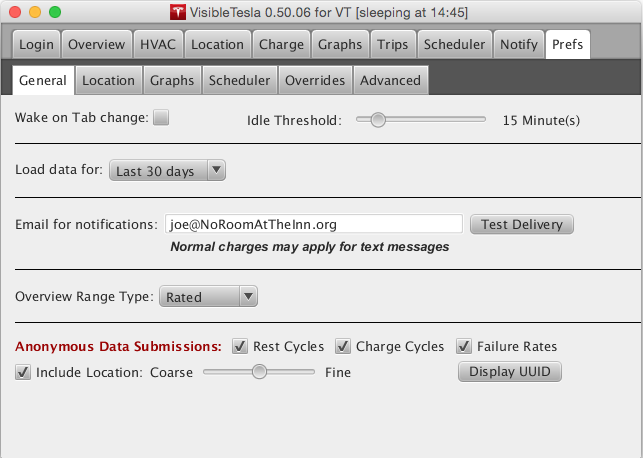
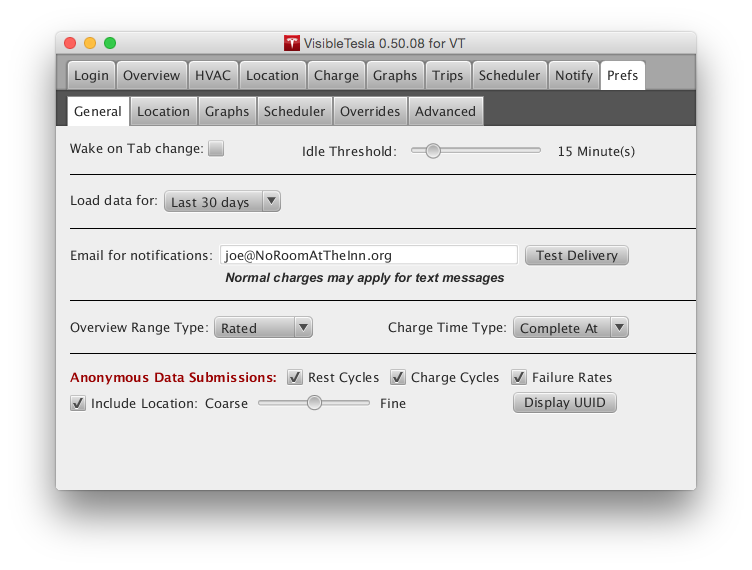
Add support for Charge Complete Time to Charge Tab. Update Docs

diff --git a/Documentation/ReleaseNotes.html b/Documentation/ReleaseNotes.html
@@ -20,6 +20,75 @@
 				VisibleTesla Release Notes
 			</h1>
 		<h3>
+			VisibleTesla 0.50.08 [04-25-15]
+		</h3>
+			<p><strong>DISCLAIMER</strong>: Using VisibleTesla may cause Tesla Motors to limit or completely cease your remote access capability. If they do this, you will not be able to use your mobile phone application, or its use may be impaired. The author of VisibleTesla cannot do anything to rectify this situation if it occurs. You are solely responsible for any adverse effects that stem from the use of VisibleTesla. Use it at your own risk.
+			</p>
+		<ul>
+			<li>User-Visible Changes
+				<ul>
+					<li>General
+						<ul>
+						</ul>
+					</li>
+					<li>Login
+						<ul>
+						</ul>
+					</li>
+					<li>Overview
+						<ul>
+						</ul>
+					</li>
+					<li>HVAC
+						<ul>
+						</ul>
+					</li>
+					<li>Location
+						<ul>
+						</ul>
+					</li>
+					<li>Charge
+						<ul>
+							<li>
+								<span class="added">Addition</span>: The "Time Left" row in the properties table will now reflect either the charge time remaining or the time at which the charge will be complete depending on a preference setting.
+							</li>
+						</ul>
+					</li>
+					<li>Graphs
+						<ul>
+						</ul>
+					</li>
+					<li>Trips
+						<ul>
+						</ul>
+					</li>
+					<li>Scheduler
+						<ul>
+						</ul>
+					</li>
+					<li>Notify
+						<ul>
+						</ul>
+					</li>
+					<li>Prefs
+						<ul>
+							<li>
+								<span class="added">Addition</span>: The General Tab now has an option that allows you to select what you'd like to see in the Charge panel for the charge time. You can either choose the time remaining until the charge is complete, or you can choose to see the time at which the charge will be complete.
+							</li>
+						</ul>
+					</li>
+				</ul>
+			</li>
+			<li>Under-the-covers
+				<ul>
+				</ul>
+			</li>
+			<li>Known problems
+				<ul>
+				</ul>
+			</li>
+		</ul>
+		<hr>				<h3>
 			VisibleTesla 0.50.07 [04-18-15]
 		</h3>
 			<p><strong>DISCLAIMER</strong>: Using VisibleTesla may cause Tesla Motors to limit or completely cease your remote access capability. If they do this, you will not be able to use your mobile phone application, or its use may be impaired. The author of VisibleTesla cannot do anything to rectify this situation if it occurs. You are solely responsible for any adverse effects that stem from the use of VisibleTesla. Use it at your own risk.
@@ -97,7 +166,8 @@
 				</ul>
 			</li>
 		</ul>
-		<hr>			<h3>
+		<hr>			
+		<h3>
 				VisibleTesla 0.50.06 [03-15-2015]
 			</h3>
 			<p><strong>DISCLAIMER</strong>: Using VisibleTesla may cause Tesla Motors to limit or completely cease your remote access capability. If they do this, you will not be able to use your mobile phone application, or its use may be impaired. The author of VisibleTesla cannot do anything to rectify this situation if it occurs. You are solely responsible for any adverse effects that stem from the use of VisibleTesla. Use it at your own risk.

diff --git a/Documentation/pages/ChargeTab.html b/Documentation/pages/ChargeTab.html
@@ -62,10 +62,10 @@
                     </tr>
                     <tr>
                         <td>
-                            Time Left
+                            Time Left/Will Complete
                         </td>
                         <td>
-                            Estimated amount of time until the charge will be complete
+                            Tells you when the current charge cycle will complete. This can display either the amount of time (hours, minutes, and seconds) until the charge is complete, or the time at which the charge will be complete. This is controlled by a <a href="PreferenceTab.html">Preference setting</a> which can be changed at any time. Note that a value may be displayed even if you are not currently charging. For example, if you plug in your car but have not yet initiated a charge, a <span class="ui">Time Left</span>value will be displayed which represents how long a charge would take.  
                         </td>
                     </tr>
                     <tr>

diff --git a/Documentation/pages/PrefsTab.html b/Documentation/pages/PrefsTab.html
@@ -81,6 +81,14 @@
                     </tr>
                     <tr>
                         <td>
+                            <span class="ui">Charge Time Type</span>
+                        </td>
+                        <td>
+                            Let's you select how to display the remaining charge time in the <a href="ChargeTab.html">Charge Tab</a>. If you select <span class="ui">Remaining</span>, you'll be presented with the number of hours, minutes, and seconds until the charge is complete. If you select <span class="ui">Complete At</span>, you'll be presented with the time at which the charge will be complete. For example, if it is currently 10:05:53 and there are 3 hours and 5 minutes remaining, the Charge Tab will show 13:05:53.
+                        </td>
+                    </tr>
+                    <tr>
+                        <td>
                             <span class="ui">Submit Anonymous Data</span>
                         </td>
                         <td>

diff --git a/src/org/noroomattheinn/visibletesla/ChargeController.java b/src/org/noroomattheinn/visibletesla/ChargeController.java
@@ -7,8 +7,11 @@
 package org.noroomattheinn.visibletesla;
 
 import java.text.SimpleDateFormat;
+import java.util.Calendar;
 import java.util.Date;
 import java.util.concurrent.Callable;
+import javafx.beans.value.ChangeListener;
+import javafx.beans.value.ObservableValue;
 import javafx.collections.FXCollections;
 import javafx.collections.ObservableList;
 import javafx.event.ActionEvent;
@@ -47,6 +50,7 @@ public class ChargeController extends BaseController {
  *----------------------------------------------------------------------------*/
     
     private boolean useMiles;
+    private boolean showTimeComplete;
     
 /*------------------------------------------------------------------------------
  *
@@ -170,7 +174,16 @@ public class ChargeController extends BaseController {
     @Override protected void initializeState() {
         chargeSlider.setDisable(Utils.compareVersions(
             vtVehicle.vehicleState.get().version, MinVersionForChargePct) < 0);
+        
+        setTimeType(prefs.chargeTimeType.get());
+        prefs.chargeTimeType.addListener(new ChangeListener<String>() {
+            @Override public void changed(ObservableValue<? extends String> ov, String t, String t1) {
+                setTimeType(t1);
+            }
+        });
+
         reflectNewState();
+        
         vtVehicle.chargeState.addTracker(new Runnable() {
             @Override public void run() { if (active()) { reflectNewState(); }
             }
@@ -216,7 +229,21 @@ public class ChargeController extends BaseController {
         nRangeCharges.setValue(String.valueOf(charge.maxRangeCharges));
         fastCharger.setValue(charge.fastChargerPresent ? "Yes":"No");
         chargeRate.setValue(String.format("%.1f", charge.chargeRate*conversionFactor));
-        remaining.setValue(charge.timeToFull());
+        if (showTimeComplete) {
+            long msToFull = (long)(charge.timeToFullCharge * (60*60*1000));
+            if (msToFull == 0 || !charge.isCharging()) {
+                remaining.setValue("00:00:00");
+            } else {
+                Calendar when = Calendar.getInstance();
+                when.setTimeInMillis(System.currentTimeMillis() + msToFull);
+                remaining.setValue(
+                    String.format("%02d:%02d:%02d", when.get(Calendar.HOUR_OF_DAY),
+                                                    when.get(Calendar.MINUTE),
+                                                    when.get(Calendar.SECOND)));
+            }
+        } else {
+            remaining.setValue(charge.timeToFull());
+        }
         actualCurrent.setValue(String.valueOf(charge.chargerActualCurrent));
         chargerPower.setValue(String.valueOf(charge.chargerPower));
         chargingState.setValue(charge.chargingState.name());
@@ -300,4 +327,17 @@ public class ChargeController extends BaseController {
         scheduledTimeLabel.setVisible(show);
     }
     
+    private void setTimeType(String timeType) {
+        switch (timeType) {
+            case "Complete At":
+                remaining.setName("Will Complete");
+                showTimeComplete = true;
+                break;
+            case "Remaining":
+            default:
+                remaining.setName("Time Left");
+                showTimeComplete = false;
+                break;
+        }
+    }
 }

diff --git a/src/org/noroomattheinn/visibletesla/Prefs.java b/src/org/noroomattheinn/visibletesla/Prefs.java
@@ -93,11 +93,13 @@ public class Prefs {
     public BooleanProperty  wakeOnTabChange         = new SimpleBooleanProperty();
     public StringProperty   loadPeriod              = new SimpleStringProperty();
     public StringProperty   overviewRange           = new SimpleStringProperty();
+    public StringProperty   chargeTimeType          = new SimpleStringProperty();
     public StringProperty   notificationAddress     = new SimpleStringProperty();
     private static final String WakeOnTCKey         = "APP_WAKE_ON_TC";
     private static final String IdleThresholdKey    = "APP_IDLE_THRESHOLD";
-    private static final String LoadPeriodKey  = "GRAPH_PERIOD";
+    private static final String LoadPeriodKey       = "GRAPH_PERIOD";
     private static final String OverviewRangeKey    = "OVERVIEW_RANGE";
+    private static final String ChargeTimeKey       = "CHARGE_TIME_TYPE";
     private static final String NotifyAddressKey    = "NOTIFICATION_ADDR";
     
     public VTData.Options   dataOptions             = new VTData.Options();
@@ -165,6 +167,7 @@ public class Prefs {
         booleanPref(WakeOnTCKey, wakeOnTabChange, true);
         stringPref(NotifyAddressKey, notificationAddress, "");
         stringPref(OverviewRangeKey, overviewRange, "Rated");
+        stringPref(ChargeTimeKey, chargeTimeType, "Remaining");
         
         booleanPref(SubmitAnonRest, dataOptions.submitAnonRest, false);
         booleanPref(SubmitAnonCharge, dataOptions.submitAnonCharge, false);

diff --git a/src/org/noroomattheinn/visibletesla/PrefsController.java b/src/org/noroomattheinn/visibletesla/PrefsController.java
@@ -59,6 +59,7 @@ public class PrefsController extends BaseController {
     @FXML private PasswordField authCode;
     @FXML private TextField     customURLSrc;
     @FXML private ComboBox<String> overviewRange;
+    @FXML private ComboBox<String> chargeTimeType;
     @FXML private ComboBox<String> logLevel;
     
     @FXML private CheckBox      anonRest;
@@ -151,6 +152,7 @@ public class PrefsController extends BaseController {
         bindToComboBox(graphsTimePeriod, prefs.loadPeriod);
         bindToTextField(emailForNotifications, prefs.notificationAddress);
         bindToComboBox(overviewRange, prefs.overviewRange);
+        bindToComboBox(chargeTimeType, prefs.chargeTimeType);
         
         bindToCheckBox(anonRest, prefs.dataOptions.submitAnonRest);
         bindToCheckBox(anonCharge, prefs.dataOptions.submitAnonCharge);
